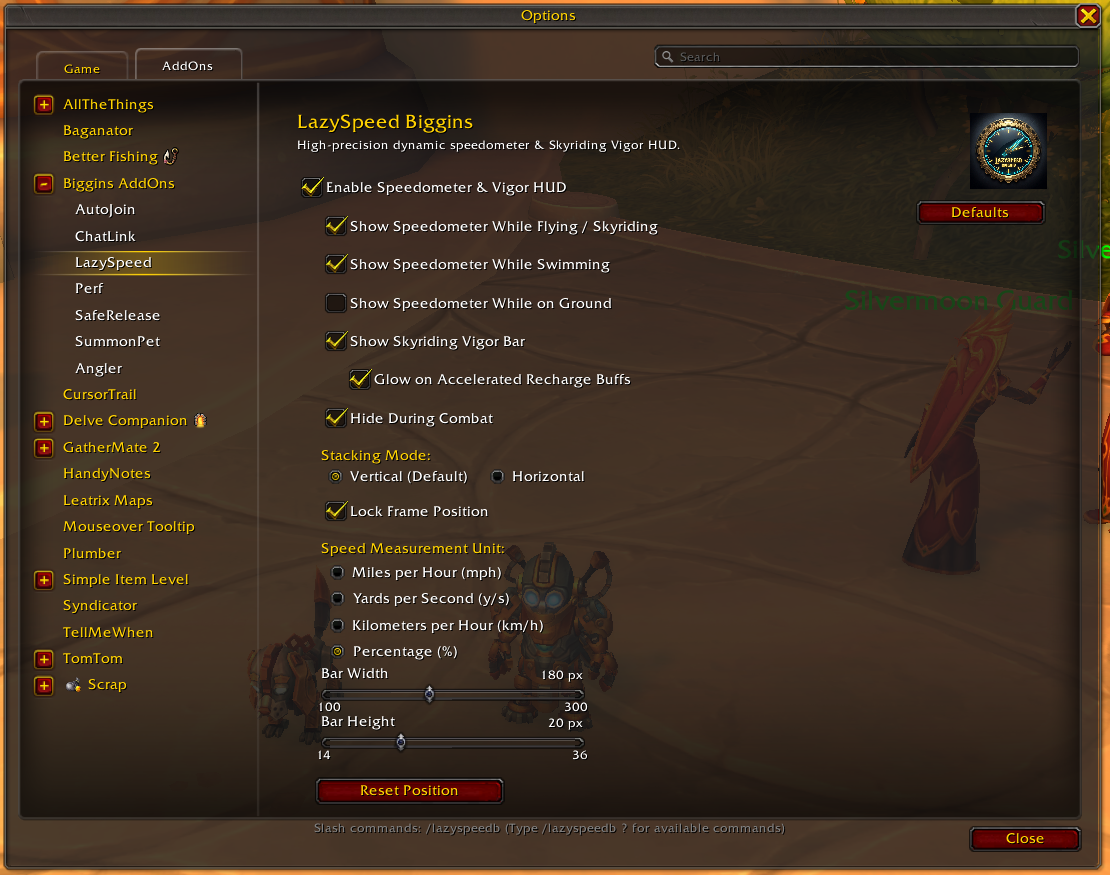
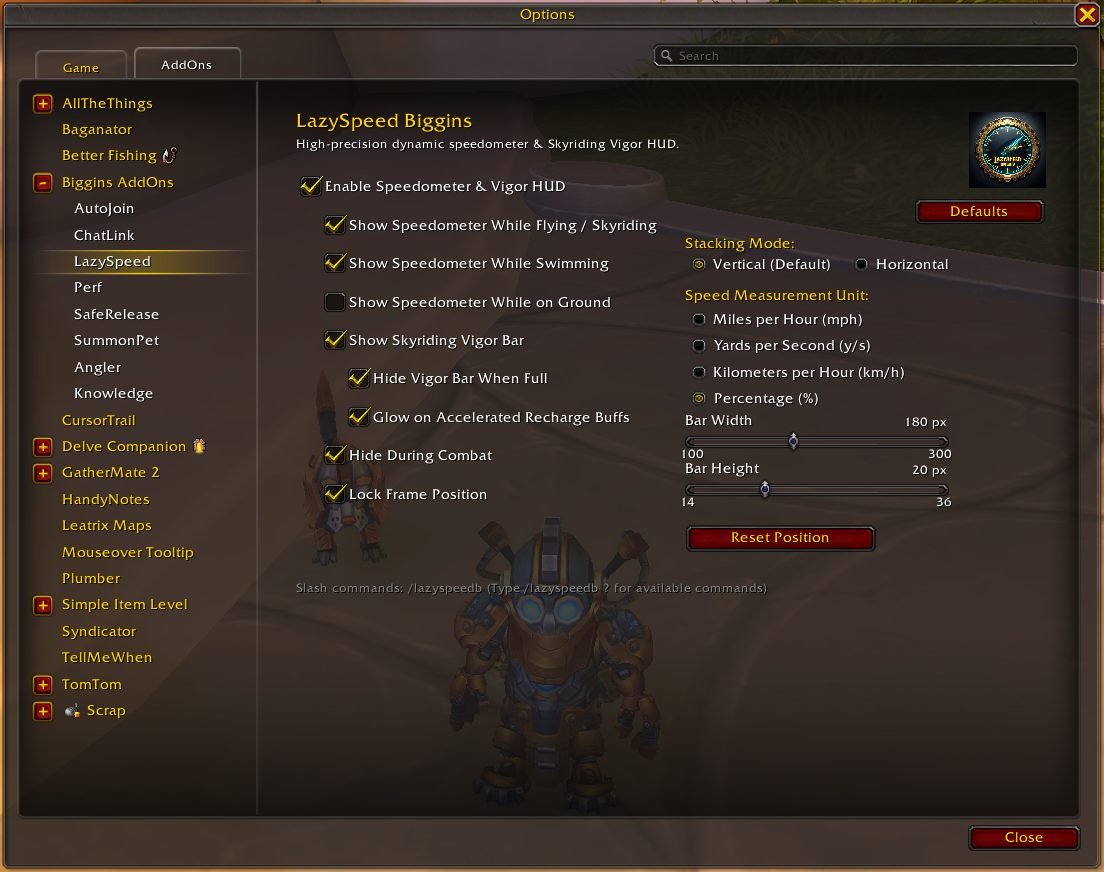
lazyspeed: fix options layout

diff --git a/lazyspeed-biggins/CHANGELOG.md b/lazyspeed-biggins/CHANGELOG.md
@@ -1,3 +1,9 @@
+# LazySpeed Biggins v4.1.1
+
+### Fixed
+- **Settings Panel Two-Column Layout:** Reorganized the Blizzard Settings options panel into a clean two-column grid. Visibility and behavioral checkboxes are anchored on the left column, while Stacking Mode, Speed Measurement Units, Bar Dimensions sliders, and Reset Position occupy the right column. This eliminates vertical overflow and prevents controls from bleeding past the bottom frame border.
+- **Slash Commands Note Spacing:** Repositioned the slash commands footer note cleanly below the Reset Position button across the entire panel width, preventing text overlap with right-column controls.
+
 # LazySpeed Biggins v4.1.0
 
 ### Added

diff --git a/lazyspeed-biggins/README.md b/lazyspeed-biggins/README.md
@@ -1,4 +1,4 @@
-# LazySpeed Biggins (v4.1.0)
+# LazySpeed Biggins (v4.1.1)
 
 A high-performance speedometer, flight, and swim gauge for *World of Warcraft: Midnight* (Patch 12.1+).
 
